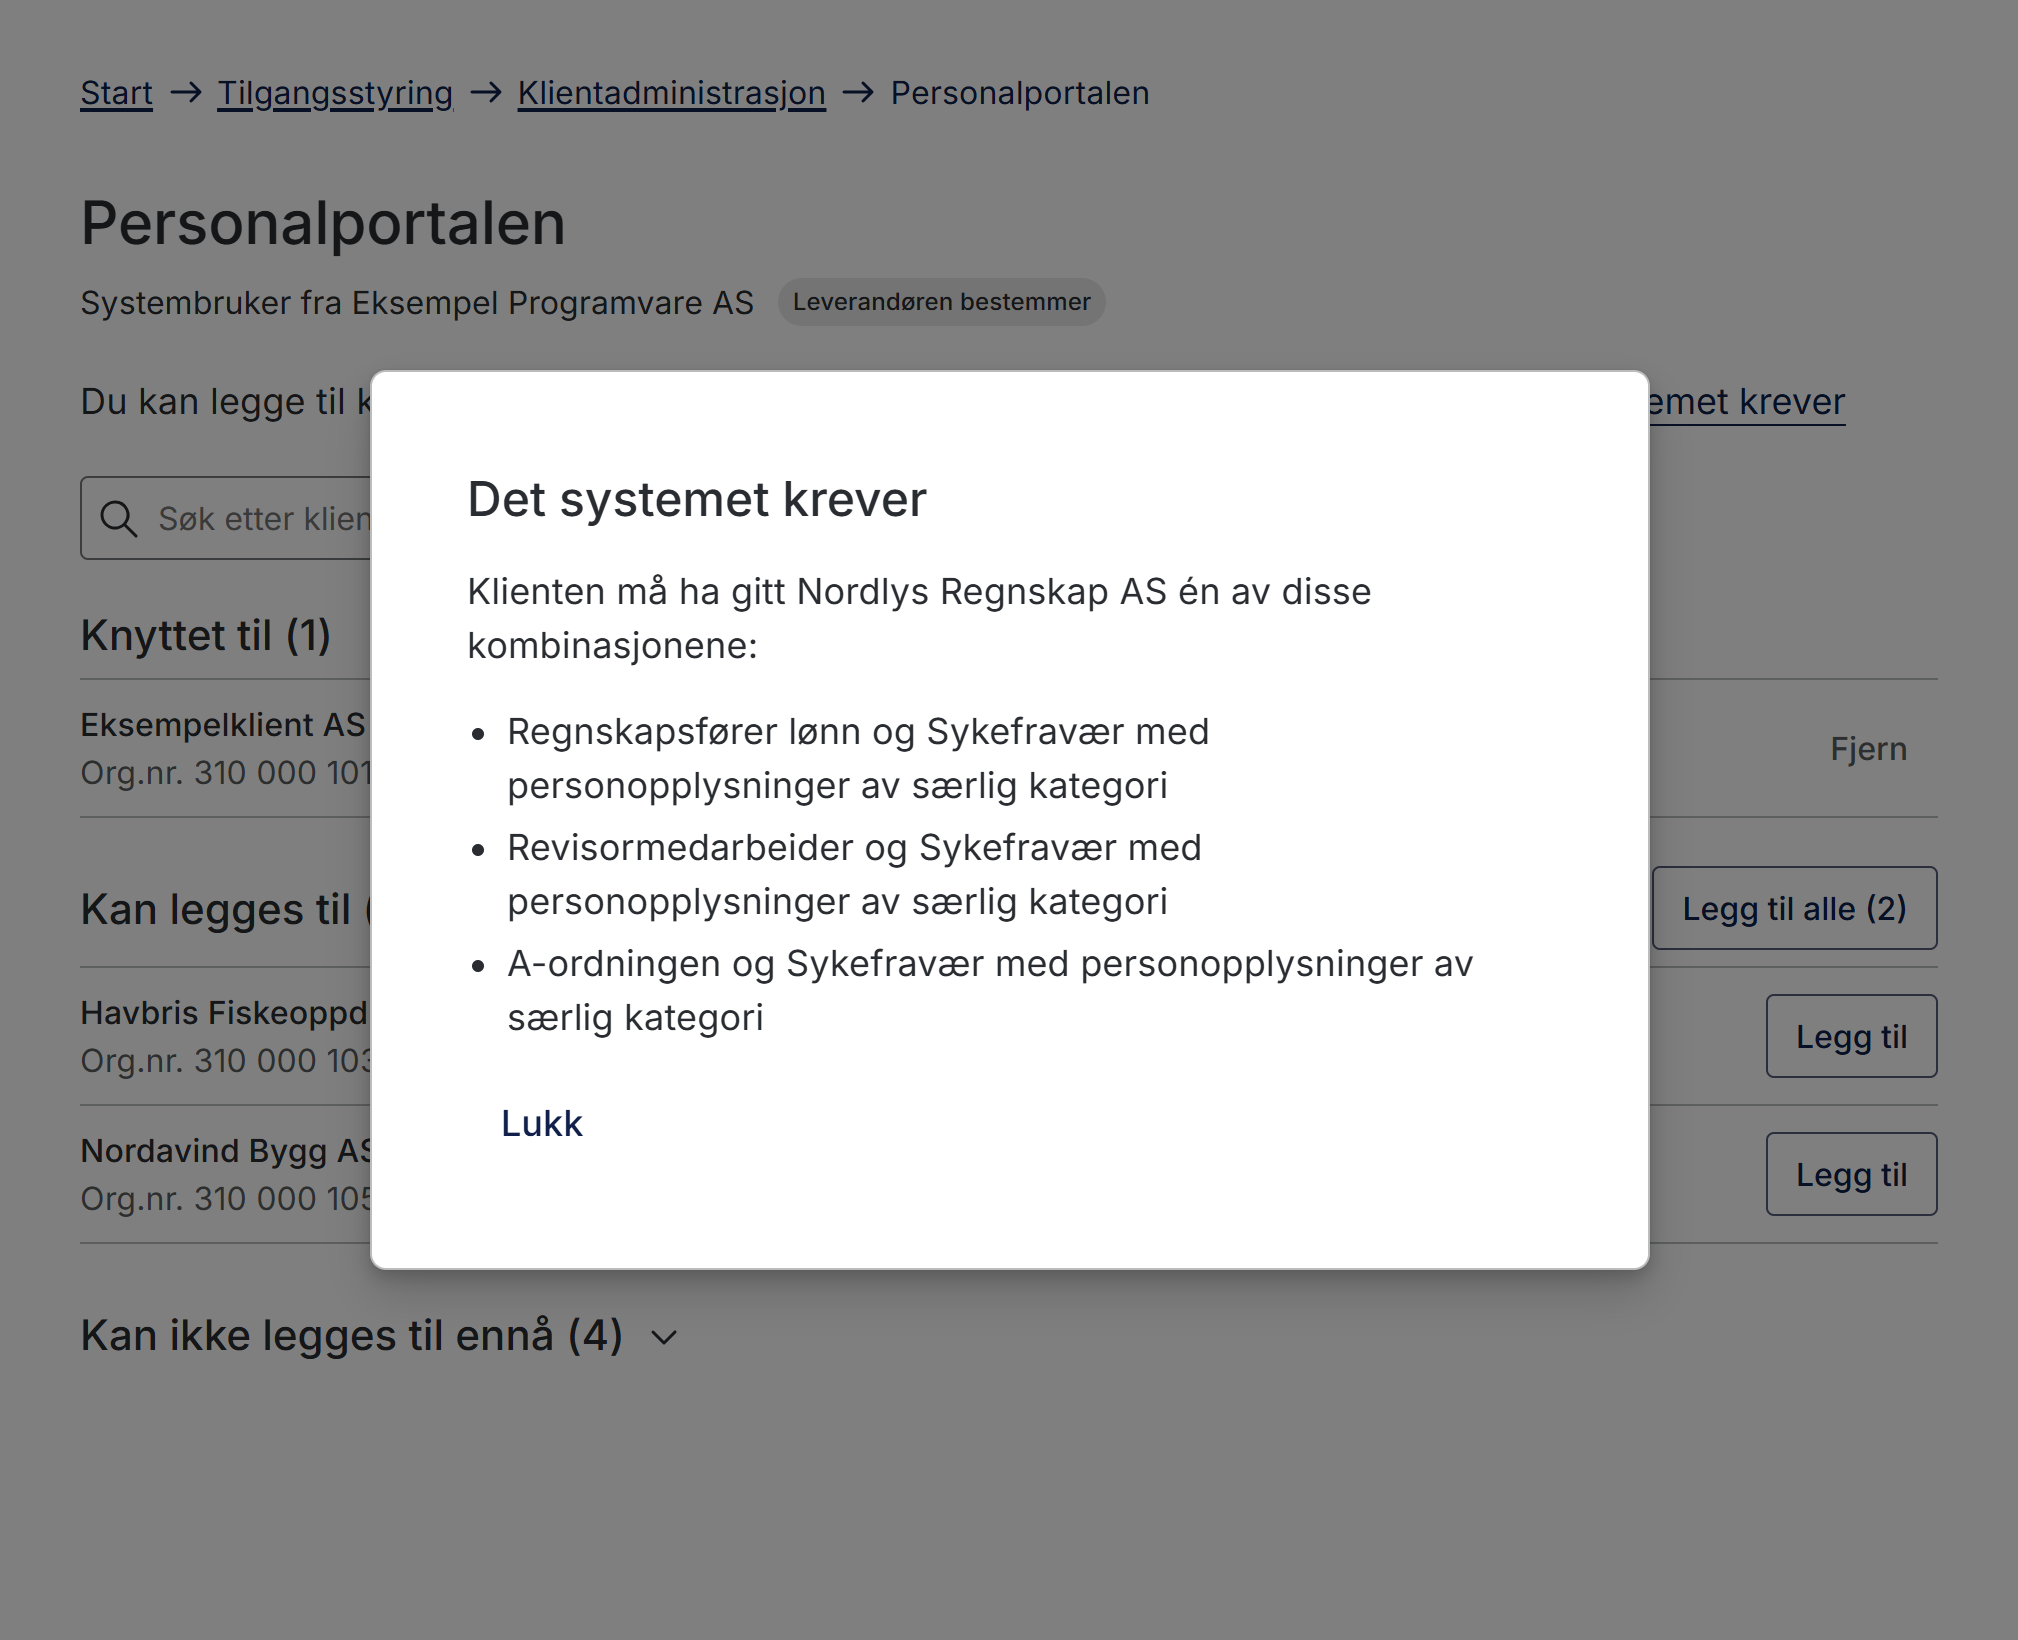
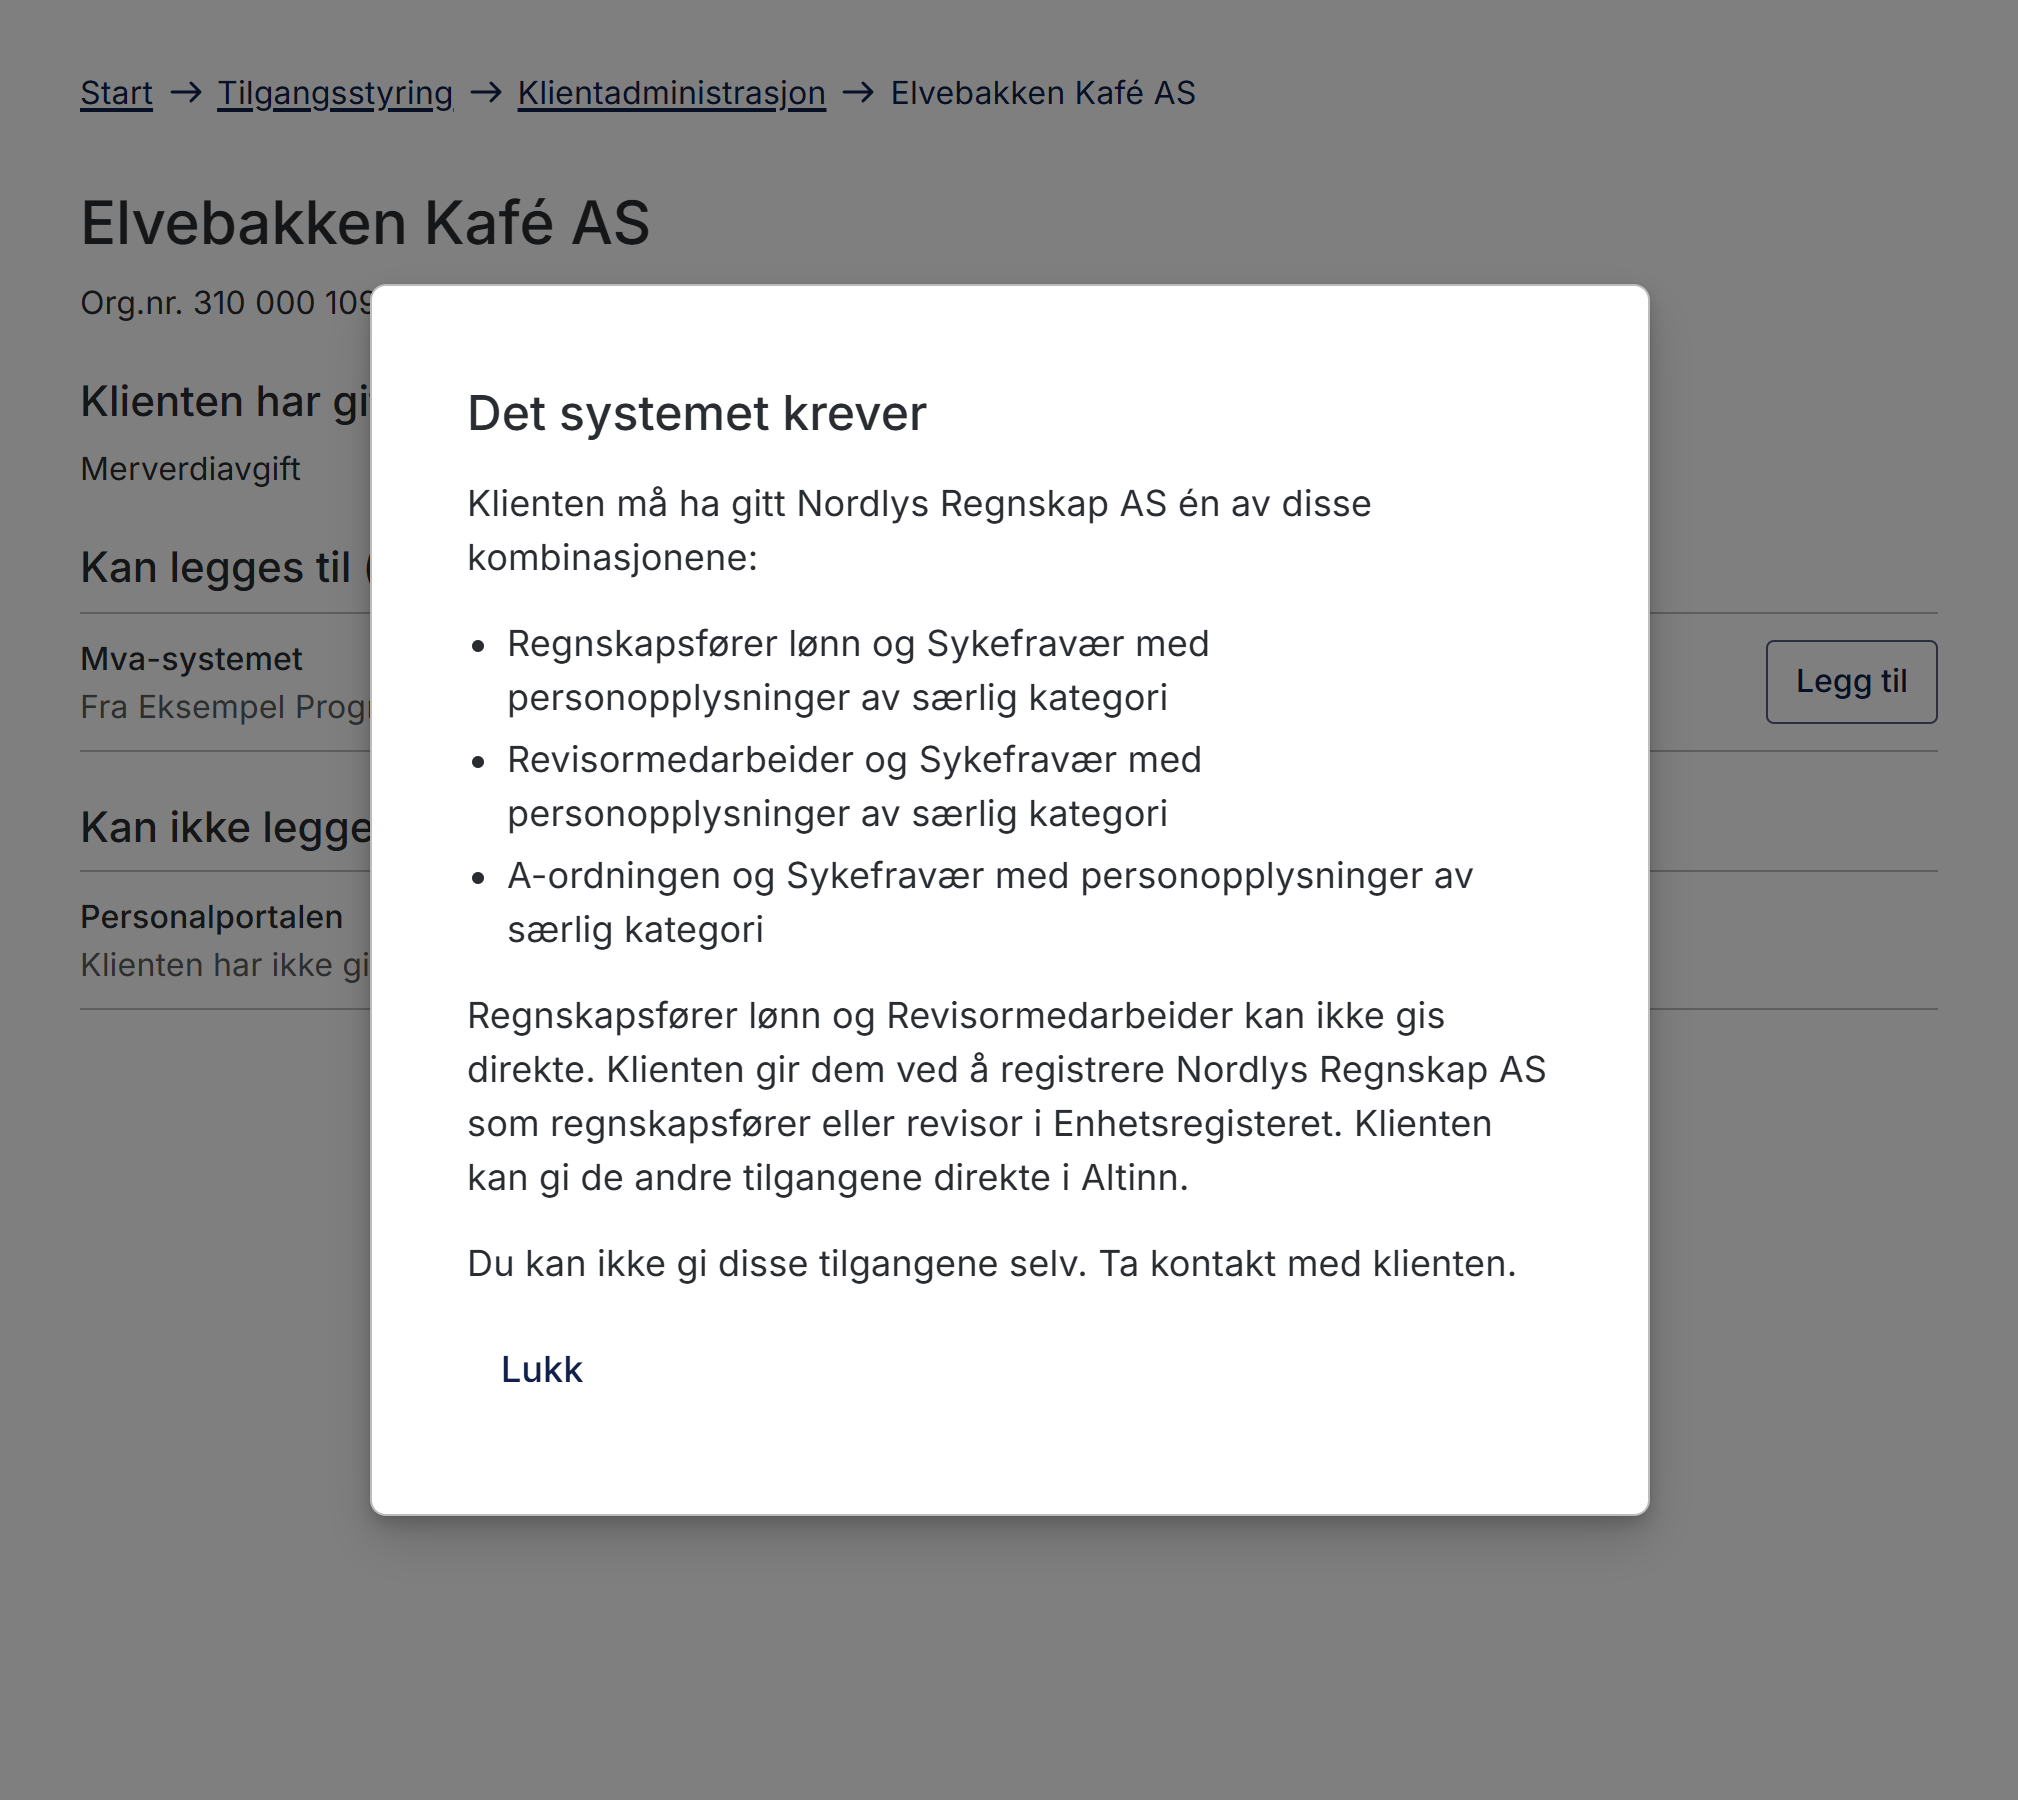
docs: klient som har gitt en annen pakke i leverandørpresentasjonen (#3294)
* docs: show client with unrelated package in vendor deck

* docs: stop presenting system user functionality as decided in vendor deck

* docs: add clients without matching access set to scenario 1

---------

diff --git a/content/authorization/guides/system-vendor/system-user/endringer-for-leverandorer.nb.md b/content/authorization/guides/system-vendor/system-user/endringer-for-leverandorer.nb.md
@@ -308,6 +308,9 @@ En klient som har gitt Sykefravær-pakken, oppfyller ikke disse settene. Virksom
 | A-ordningen og Sykefravær-pakken | 3 | Virksomheten kan knytte klienten til systembrukeren |
 | Regnskapsførerrolle | Ingen | Flaten viser at Sykefravær-pakken mangler, og at klienten må gi den |
 | Bare A-ordningen | Ingen | Flaten viser at Sykefravær-pakken mangler, og at klienten må gi den |
+| Regnskapsførerrolle og pakken Sykefravær, ikke den med særlig kategori | Ingen | Flaten viser at Sykefravær-pakken med særlig kategori mangler |
+| Bare Sykefravær-pakken | Ingen | Flaten viser at klienten har gitt en del av det systemet krever |
+| Bare en annen pakke, for eksempel Merverdiavgift | Ingen | Flaten viser at klienten ikke har gitt noe av det systemet krever |
 
 Klienten kan ikke delegere regnskapsfører- og revisorpakkene direkte. En uregistrert kunde kan derfor bare oppfylle sett 3.
 
@@ -390,10 +393,10 @@ Er du i tvil, fortsett som i dag. Du kan ta i bruk flagget for nye kunder senere
 
 De neste lysbildene viser hvordan virksomhetene kan se og forvalte systembrukere i Tilgangsstyring.
 
-- Dette er skisser for å forstå problemet, ikke designforslag. Utformingen kan endre seg, men det funksjonelle er vedtatt.
+- Dette er skisser for å forstå problemet, ikke designforslag. Både utformingen og funksjonaliteten kan endre seg, og vi vil gjerne ha innspill.
 - Skissene for klienter når leverandøren bestemmer viser rettighetssett.
 - De øvrige skissene er laget tidligere. De har mer informasjon, og stiplede merker som viser hvilken regel et element oppfyller. Reglene R1–R25 står forklart til slutt i presentasjonen.
-- To ting i de eldre skissene er ikke vedtatt: lenken **Endre hvem som bestemmer tilgangene**, og at leverandørens forslag er forhåndsvalgt når virksomheten knytter til en ny klient.
+- Dette er blant annet ikke vedtatt i de eldre skissene: lenken **Endre hvem som bestemmer tilgangene**, og at leverandørens forslag er forhåndsvalgt når virksomheten knytter til en ny klient.
 
 Alle navn, organisasjonsnumre og eksempeltilganger er fiktive.
 
@@ -436,9 +439,9 @@ Virksomheten ser hvilke klienter som er lagt til, hvilke de kan legge til, og hv
 ---
 ## Klienter som ikke kan legges til ennå
 
-Hver klient viser hva som mangler, og hvem som må gjøre noe. Dette kan du vise til når en kunde spør hvorfor en klient ikke kan legges til.
+Hver klient viser hva som mangler, eller lenken **Se hva systemet krever** når klienten mangler like mye til alle settene. Dette kan du vise til når en kunde spør hvorfor en klient ikke kan legges til.
 
-[![Listen over klienter som ikke kan legges til ennå, der tre mangler Sykefravær-pakken og én mangler A-ordningen, og klienten må gi det som mangler](/images/authorization/systemuser/2026-11-05/klienter-kan-ikke-legges-til.png)](/images/authorization/systemuser/2026-11-05/klienter-kan-ikke-legges-til.png "Åpne skissen i full størrelse")
+[![Personalportalen med listen over klienter som ikke kan legges til ennå: tre mangler Sykefravær-pakken, og Kystlinjen Eiendom AS har gitt en del av det systemet krever](/images/authorization/systemuser/2026-11-05/klienter-kan-ikke-legges-til.png)](/images/authorization/systemuser/2026-11-05/klienter-kan-ikke-legges-til.png "Åpne skissen i full størrelse")
 
 *Skisse, ikke et designforslag. Klikk på bildet for full størrelse.*
 
@@ -454,9 +457,9 @@ Når virksomheten klikker **Legg til**, ser de hvilke tilganger systembrukeren f
 ---
 ## Det systemet krever
 
-Rettighetssettene du har oppgitt, ligger bak lenken **Se hva systemet krever**. Virksomheten trenger dem bare hvis de vil forstå hvorfor en klient ikke kan legges til.
+Rettighetssettene du har oppgitt, ligger bak lenken **Se hva systemet krever**. Virksomheten trenger dem bare hvis de vil forstå hvorfor en klient ikke kan legges til. Dialogen forklarer også hvilke tilganger klienten gir ved å registrere regnskapsfører eller revisor i Enhetsregisteret, og hvilke klienten kan gi direkte.
 
-[![Dialogen Det systemet krever, som viser de tre kombinasjonene av tilgangspakker klienten må ha gitt én av](/images/authorization/systemuser/2026-11-05/det-systemet-krever.png)](/images/authorization/systemuser/2026-11-05/det-systemet-krever.png "Åpne skissen i full størrelse")
+[![Dialogen Det systemet krever: de tre kombinasjonene av tilgangspakker klienten må ha gitt én av, og hvordan klienten gir dem](/images/authorization/systemuser/2026-11-05/det-systemet-krever.png)](/images/authorization/systemuser/2026-11-05/det-systemet-krever.png "Åpne skissen i full størrelse")
 
 *Skisse, ikke et designforslag. Klikk på bildet for full størrelse.*
 
@@ -499,9 +502,18 @@ For hver klient velger virksomheten hvilke av klientens fullmakter systembrukere
 ---
 ## Klientens side viser systembrukerne
 
-På siden for en klient ser virksomheten hvilke systembrukere de kan legge til, og hva som hindrer de andre.
+På siden for en klient ser virksomheten hva klienten har gitt, hvilke systembrukere de kan legge til, og hva som hindrer de andre. Personalportalen får bare settet klienten oppfyller, så Ansvarlig revisor følger ikke med.
 
-[![Siden for Havbris Fiskeoppdrett AS: Personalportalen kan legges til, og Lønn Direkte krever rollen regnskapsfører](/images/authorization/systemuser/2026-11-05/klient-valgt.png)](/images/authorization/systemuser/2026-11-05/klient-valgt.png "Åpne skissen i full størrelse")
+[![Siden for Havbris Fiskeoppdrett AS: klienten har gitt tre tilganger, Personalportalen kan legges til, og Lønn Direkte krever rollen regnskapsfører](/images/authorization/systemuser/2026-11-05/klient-valgt.png)](/images/authorization/systemuser/2026-11-05/klient-valgt.png "Åpne skissen i full størrelse")
+
+*Skisse, ikke et designforslag. Klikk på bildet for full størrelse.*
+
+---
+## Når klienten har gitt en annen pakke
+
+Elvebakken Kafé AS har bare gitt Merverdiavgift. Pakken finnes ikke i noen av settene til Personalportalen, så klienten kan ikke legges til. Virksomheten kan ikke rette dette selv, og må kontakte klienten. Mva-systemet krever pakken og kan legges til.
+
+[![Siden for Elvebakken Kafé AS: klienten har gitt Merverdiavgift, Mva-systemet kan legges til, og Personalportalen kan ikke legges til fordi klienten ikke har gitt noe av det systemet krever](/images/authorization/systemuser/2026-11-05/klient-annen-pakke.png)](/images/authorization/systemuser/2026-11-05/klient-annen-pakke.png "Åpne skissen i full størrelse")
 
 *Skisse, ikke et designforslag. Klikk på bildet for full størrelse.*
 
@@ -522,6 +534,8 @@ På siden for en klient ser virksomheten hvilke systembrukere de kan legge til, 
 - Oppdatering av rettighetssett: om kunden må godkjenne, hva «komplett» betyr med flere sett, og hva som skjer når du fjerner en tilgang fra et sett.
 - Hva som skjer når klienten trekker tilbake bare en del av settet, også om systembrukeren skal gå over til et annet sett klienten fortsatt oppfyller.
 - Hvor mange rettighetssett du kan oppgi.
+- Om Altinn sammenligner tilgangspakkene i settet, eller tjenestene pakkene gir tilgang til. Skissene forutsetter tilgangspakkene.
+- Hva listen skal vise når en klient mangler like mye til flere sett. Skissene viser ingen bestemt pakke.
 - Når funksjonaliteten blir tilgjengelig i testmiljøet og i produksjon.
 
 Vi oppdaterer veiledningene for systemleverandører og virksomheter før funksjonaliteten blir tilgjengelig.
